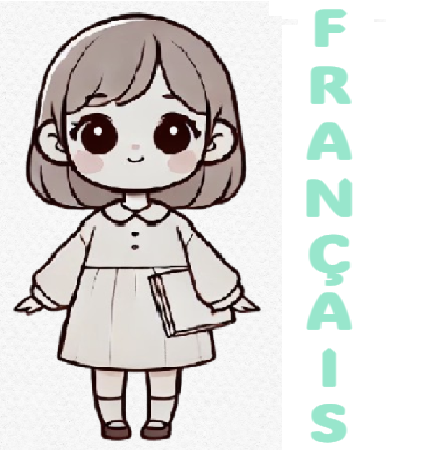
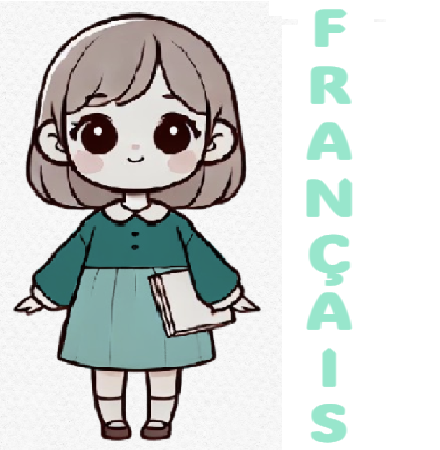
french girl clothes color retouched

Changed region(s): [[0.0591, 0.4667, 0.5614, 0.84]]

diff --git a/src/components/Carousel.js b/src/components/Carousel.js
@@ -33,7 +33,7 @@ const Carousel = () => {
   useEffect(() => {
     const intervalId = setInterval(() => {
       changeSlide(1); 
-    }, 10000); // 10000ms = 10 secondes
+    }, 7900); // 10000ms = 10 secondes
 
     // Cleanup de l'intervalle lors du démontage du composant
     return () => clearInterval(intervalId);
